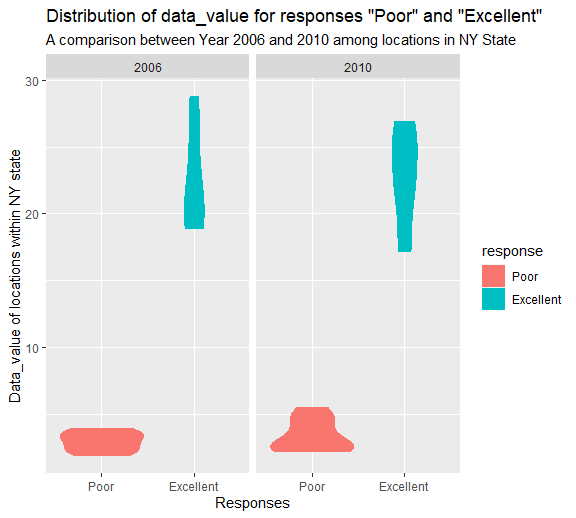
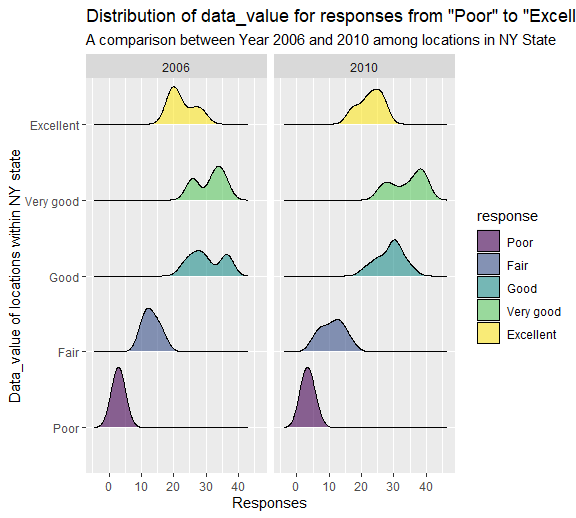
Updated Problem 2 and 3

diff --git a/p8105_hw3_ml4701.md b/p8105_hw3_ml4701.md
@@ -330,26 +330,23 @@ data("brfss_smart2010")
 brfss = brfss_smart2010 %>% 
   janitor::clean_names() %>% 
   filter(topic == "Overall Health",
-         response == "Excellent" | response == "Poor") %>% 
-  mutate(
-    response = fct_reorder(response,response, .desc = TRUE)
-  )
+         response %in% c('Excellent','Very good','Good','Fair','Poor')) 
 
 knitr::kable(head(brfss,10))
 ```
 
-| year | locationabbr | locationdesc           | class         | topic          | question                    | response  | sample\_size | data\_value | confidence\_limit\_low | confidence\_limit\_high | display\_order | data\_value\_unit | data\_value\_type | data\_value\_footnote\_symbol | data\_value\_footnote | data\_source | class\_id | topic\_id | location\_id | question\_id | respid  | geo\_location            |
-|-----:|:-------------|:-----------------------|:--------------|:---------------|:----------------------------|:----------|-------------:|------------:|-----------------------:|------------------------:|---------------:|:------------------|:------------------|:------------------------------|:----------------------|:-------------|:----------|:----------|:-------------|:-------------|:--------|:-------------------------|
-| 2010 | AL           | AL - Jefferson County  | Health Status | Overall Health | How is your general health? | Excellent |           94 |        18.9 |                   14.1 |                    23.6 |              1 | %                 | Crude Prevalence  | NA                            | NA                    | BRFSS        | CLASS08   | Topic41   | NA           | GENHLTH      | RESP056 | (33.518601, -86.814688)  |
-| 2010 | AL           | AL - Jefferson County  | Health Status | Overall Health | How is your general health? | Poor      |           45 |         5.5 |                    3.5 |                     7.4 |              5 | %                 | Crude Prevalence  | NA                            | NA                    | BRFSS        | CLASS08   | Topic41   | NA           | GENHLTH      | RESP060 | (33.518601, -86.814688)  |
-| 2010 | AL           | AL - Mobile County     | Health Status | Overall Health | How is your general health? | Excellent |           91 |        15.6 |                   11.0 |                    20.1 |              1 | %                 | Crude Prevalence  | NA                            | NA                    | BRFSS        | CLASS08   | Topic41   | NA           | GENHLTH      | RESP056 | (30.683993, -88.170637)  |
-| 2010 | AL           | AL - Mobile County     | Health Status | Overall Health | How is your general health? | Poor      |           66 |         6.4 |                    4.4 |                     8.3 |              5 | %                 | Crude Prevalence  | NA                            | NA                    | BRFSS        | CLASS08   | Topic41   | NA           | GENHLTH      | RESP060 | (30.683993, -88.170637)  |
-| 2010 | AL           | AL - Tuscaloosa County | Health Status | Overall Health | How is your general health? | Excellent |           58 |        20.8 |                   14.1 |                    27.4 |              1 | %                 | Crude Prevalence  | NA                            | NA                    | BRFSS        | CLASS08   | Topic41   | NA           | GENHLTH      | RESP056 | (33.214154, -87.520229)  |
-| 2010 | AL           | AL - Tuscaloosa County | Health Status | Overall Health | How is your general health? | Poor      |           35 |         4.2 |                    2.6 |                     5.7 |              5 | %                 | Crude Prevalence  | NA                            | NA                    | BRFSS        | CLASS08   | Topic41   | NA           | GENHLTH      | RESP060 | (33.214154, -87.520229)  |
-| 2010 | AZ           | AZ - Maricopa County   | Health Status | Overall Health | How is your general health? | Excellent |          269 |        27.3 |                   23.3 |                    31.2 |              1 | %                 | Crude Prevalence  | NA                            | NA                    | BRFSS        | CLASS08   | Topic41   | NA           | GENHLTH      | RESP056 | (33.493403, -112.04143)  |
-| 2010 | AZ           | AZ - Maricopa County   | Health Status | Overall Health | How is your general health? | Poor      |           62 |         3.5 |                    2.3 |                     4.6 |              5 | %                 | Crude Prevalence  | NA                            | NA                    | BRFSS        | CLASS08   | Topic41   | NA           | GENHLTH      | RESP060 | (33.493403, -112.04143)  |
-| 2010 | AZ           | AZ - Pinal County      | Health Status | Overall Health | How is your general health? | Excellent |           68 |        17.0 |                   10.5 |                    23.4 |              1 | %                 | Crude Prevalence  | NA                            | NA                    | BRFSS        | CLASS08   | Topic41   | NA           | GENHLTH      | RESP056 | (33.060133, -111.588364) |
-| 2010 | AZ           | AZ - Pima County       | Health Status | Overall Health | How is your general health? | Excellent |          133 |        20.5 |                   15.7 |                    25.2 |              1 | %                 | Crude Prevalence  | NA                            | NA                    | BRFSS        | CLASS08   | Topic41   | NA           | GENHLTH      | RESP056 | (32.216707, -110.96001)  |
+| year | locationabbr | locationdesc          | class         | topic          | question                    | response  | sample\_size | data\_value | confidence\_limit\_low | confidence\_limit\_high | display\_order | data\_value\_unit | data\_value\_type | data\_value\_footnote\_symbol | data\_value\_footnote | data\_source | class\_id | topic\_id | location\_id | question\_id | respid  | geo\_location           |
+|-----:|:-------------|:----------------------|:--------------|:---------------|:----------------------------|:----------|-------------:|------------:|-----------------------:|------------------------:|---------------:|:------------------|:------------------|:------------------------------|:----------------------|:-------------|:----------|:----------|:-------------|:-------------|:--------|:------------------------|
+| 2010 | AL           | AL - Jefferson County | Health Status | Overall Health | How is your general health? | Excellent |           94 |        18.9 |                   14.1 |                    23.6 |              1 | %                 | Crude Prevalence  | NA                            | NA                    | BRFSS        | CLASS08   | Topic41   | NA           | GENHLTH      | RESP056 | (33.518601, -86.814688) |
+| 2010 | AL           | AL - Jefferson County | Health Status | Overall Health | How is your general health? | Very good |          148 |        30.0 |                   24.9 |                    35.0 |              2 | %                 | Crude Prevalence  | NA                            | NA                    | BRFSS        | CLASS08   | Topic41   | NA           | GENHLTH      | RESP057 | (33.518601, -86.814688) |
+| 2010 | AL           | AL - Jefferson County | Health Status | Overall Health | How is your general health? | Good      |          208 |        33.1 |                   28.2 |                    38.0 |              3 | %                 | Crude Prevalence  | NA                            | NA                    | BRFSS        | CLASS08   | Topic41   | NA           | GENHLTH      | RESP058 | (33.518601, -86.814688) |
+| 2010 | AL           | AL - Jefferson County | Health Status | Overall Health | How is your general health? | Fair      |          107 |        12.5 |                    9.5 |                    15.4 |              4 | %                 | Crude Prevalence  | NA                            | NA                    | BRFSS        | CLASS08   | Topic41   | NA           | GENHLTH      | RESP059 | (33.518601, -86.814688) |
+| 2010 | AL           | AL - Jefferson County | Health Status | Overall Health | How is your general health? | Poor      |           45 |         5.5 |                    3.5 |                     7.4 |              5 | %                 | Crude Prevalence  | NA                            | NA                    | BRFSS        | CLASS08   | Topic41   | NA           | GENHLTH      | RESP060 | (33.518601, -86.814688) |
+| 2010 | AL           | AL - Mobile County    | Health Status | Overall Health | How is your general health? | Excellent |           91 |        15.6 |                   11.0 |                    20.1 |              1 | %                 | Crude Prevalence  | NA                            | NA                    | BRFSS        | CLASS08   | Topic41   | NA           | GENHLTH      | RESP056 | (30.683993, -88.170637) |
+| 2010 | AL           | AL - Mobile County    | Health Status | Overall Health | How is your general health? | Very good |          177 |        31.3 |                   26.0 |                    36.5 |              2 | %                 | Crude Prevalence  | NA                            | NA                    | BRFSS        | CLASS08   | Topic41   | NA           | GENHLTH      | RESP057 | (30.683993, -88.170637) |
+| 2010 | AL           | AL - Mobile County    | Health Status | Overall Health | How is your general health? | Good      |          224 |        31.2 |                   26.1 |                    36.2 |              3 | %                 | Crude Prevalence  | NA                            | NA                    | BRFSS        | CLASS08   | Topic41   | NA           | GENHLTH      | RESP058 | (30.683993, -88.170637) |
+| 2010 | AL           | AL - Mobile County    | Health Status | Overall Health | How is your general health? | Fair      |          120 |        15.5 |                   11.7 |                    19.2 |              4 | %                 | Crude Prevalence  | NA                            | NA                    | BRFSS        | CLASS08   | Topic41   | NA           | GENHLTH      | RESP059 | (30.683993, -88.170637) |
+| 2010 | AL           | AL - Mobile County    | Health Status | Overall Health | How is your general health? | Poor      |           66 |         6.4 |                    4.4 |                     8.3 |              5 | %                 | Crude Prevalence  | NA                            | NA                    | BRFSS        | CLASS08   | Topic41   | NA           | GENHLTH      | RESP060 | (30.683993, -88.170637) |
 
 #### Questions
 
@@ -464,23 +461,135 @@ distribution of data\_value for responses (“Poor” to “Excellent”) among
 locations in NY State.**
 
 The following violin plot shows the differences in distribution of
-`data_value` for `response`s “Poor” and “Excellent” between 2006 and
-2010 among locations in NY State.
+`data_value` for `response`s ‘Poor’,‘Fair’,‘Good’,‘Very
+good’,‘Excellent’ between 2006 and 2010 among locations in NY State.
 
 ``` r
 brfss %>% 
   filter(year == 2006 | year == 2010,
          locationabbr == "NY") %>% 
+  mutate(
+    response = factor(response,order = TRUE, 
+        levels = c('Poor','Fair','Good','Very good','Excellent'))
+    ) %>% 
   select(year,response,data_value) %>% 
-  ggplot(aes(x = response, y = data_value, color = response))+
-  geom_violin(aes(fill = response))+
+  ggplot(aes( x = data_value,y = response, fill = response))+
+  geom_density_ridges(alpha = .6,scale = 0.8) +
+  #geom_dist(aes(fill = response))+
   facet_grid(.~year)+
   labs(
-    title = "Distribution of data_value for responses \"Poor\" and \"Excellent\"",
+    title = "Distribution of data_value for responses from \"Poor\" to \"Excellent\"",
     subtitle = "A comparison between Year 2006 and 2010 among locations in NY State",
     x = "Responses",
     y = "Data_value of locations within NY state"
   )
 ```
 
+    ## Picking joint bandwidth of 2.1
+
+    ## Picking joint bandwidth of 2.03
+
 <img src="p8105_hw3_ml4701_files/figure-gfm/unnamed-chunk-15-1.png" width="90%" />
+
+### Problem 3
+
+#### Loading and tidying data
+
+``` r
+accel_df = read_csv("data/accel_data.csv") %>% 
+  janitor::clean_names() %>% 
+  mutate(
+    weekend = ifelse(day %in% c("Saturday","Sunday"),1,0),
+    ) %>% 
+  pivot_longer(4:1443,names_to = "minute", names_prefix = "activity_",values_to = "activity_count") %>% 
+  mutate(
+    weekend = as.factor(weekend),
+    minute = as.numeric(minute)
+    ) 
+```
+
+    ## Rows: 35 Columns: 1443
+
+    ## -- Column specification --------------------------------------------------------
+    ## Delimiter: ","
+    ## chr    (1): day
+    ## dbl (1442): week, day_id, activity.1, activity.2, activity.3, activity.4, ac...
+
+    ## 
+    ## i Use `spec()` to retrieve the full column specification for this data.
+    ## i Specify the column types or set `show_col_types = FALSE` to quiet this message.
+
+#### 1.
+
+After data wrangling, the resulting dataframe has 50400 observations and
+6 variables. The variables include:
+
+-   `week`: numeric variable from the original data, contains 5 integers
+    from 1 to 5.
+-   `day_id`: numeric variable from the original data, contains 35
+    integers from 1 to 35.
+-   `day`: `day` variable from the original data, is a character
+    variable containing 7 unique values Friday, Monday, Saturday,
+    Sunday, Thursday, Tuesday, Wednesday
+-   `weekend`: a newly created factor variable containing factors `1`
+    and `0`, where `1` stands for weekend, and `0` stands for weekdays.
+-   `minute`: a newly created numeric variable by `pivot_longer` of the
+    original variable `activity.*`. It stands for the minute when the
+    activity occurs.
+-   `activity_count`: another newly created numeric variable by
+    `pivot_longer` of the original variable `activity.*`. It contains
+    the original activity counts for each minute.
+
+An overview of first 10 lines of the resulting dataset is shown below:
+
+``` r
+knitr::kable(head(accel_df,10))
+```
+
+| week | day\_id | day    | weekend | minute | activity\_count |
+|-----:|--------:|:-------|:--------|-------:|----------------:|
+|    1 |       1 | Friday | 0       |      1 |        88.37778 |
+|    1 |       1 | Friday | 0       |      2 |        82.24444 |
+|    1 |       1 | Friday | 0       |      3 |        64.44444 |
+|    1 |       1 | Friday | 0       |      4 |        70.04444 |
+|    1 |       1 | Friday | 0       |      5 |        75.04444 |
+|    1 |       1 | Friday | 0       |      6 |        66.26667 |
+|    1 |       1 | Friday | 0       |      7 |        53.75556 |
+|    1 |       1 | Friday | 0       |      8 |        47.84444 |
+|    1 |       1 | Friday | 0       |      9 |        55.46667 |
+|    1 |       1 | Friday | 0       |     10 |        42.95556 |
+
+Traditional analyses of accelerometer data focus on the total activity
+over the day. Using your tidied dataset, aggregate across minutes to
+create a total activity variable for each day, and create a table
+showing these totals. Are any trends apparent?
+
+#### 2.
+
+The above scatter plot shows the total activity counts calculated from
+the `accel_df` dataset over days.
+
+``` r
+accel_df %>% 
+  group_by(day_id) %>% 
+  summarize(total_activity_count = sum(activity_count)) %>% 
+  ggplot(aes(x = day_id, y = total_activity_count,color = total_activity_count))+
+  geom_point(alpha = .8)+
+  labs(
+    title = "Total activity counts over days",
+    x = "Day",
+    y = "Total activity counts"
+  )
+```
+
+<img src="p8105_hw3_ml4701_files/figure-gfm/unnamed-chunk-18-1.png" width="90%" />
+
+From the plot, total activity counts seem to jump up and down across
+days and does not have apparent daily trends.
+
+#### 3.
+
+Accelerometer data allows the inspection activity over the course of the
+day. Make a single-panel plot that shows the 24-hour activity time
+courses for each day and use color to indicate day of the week. Describe
+in words any patterns or conclusions you can make based on this graph.
